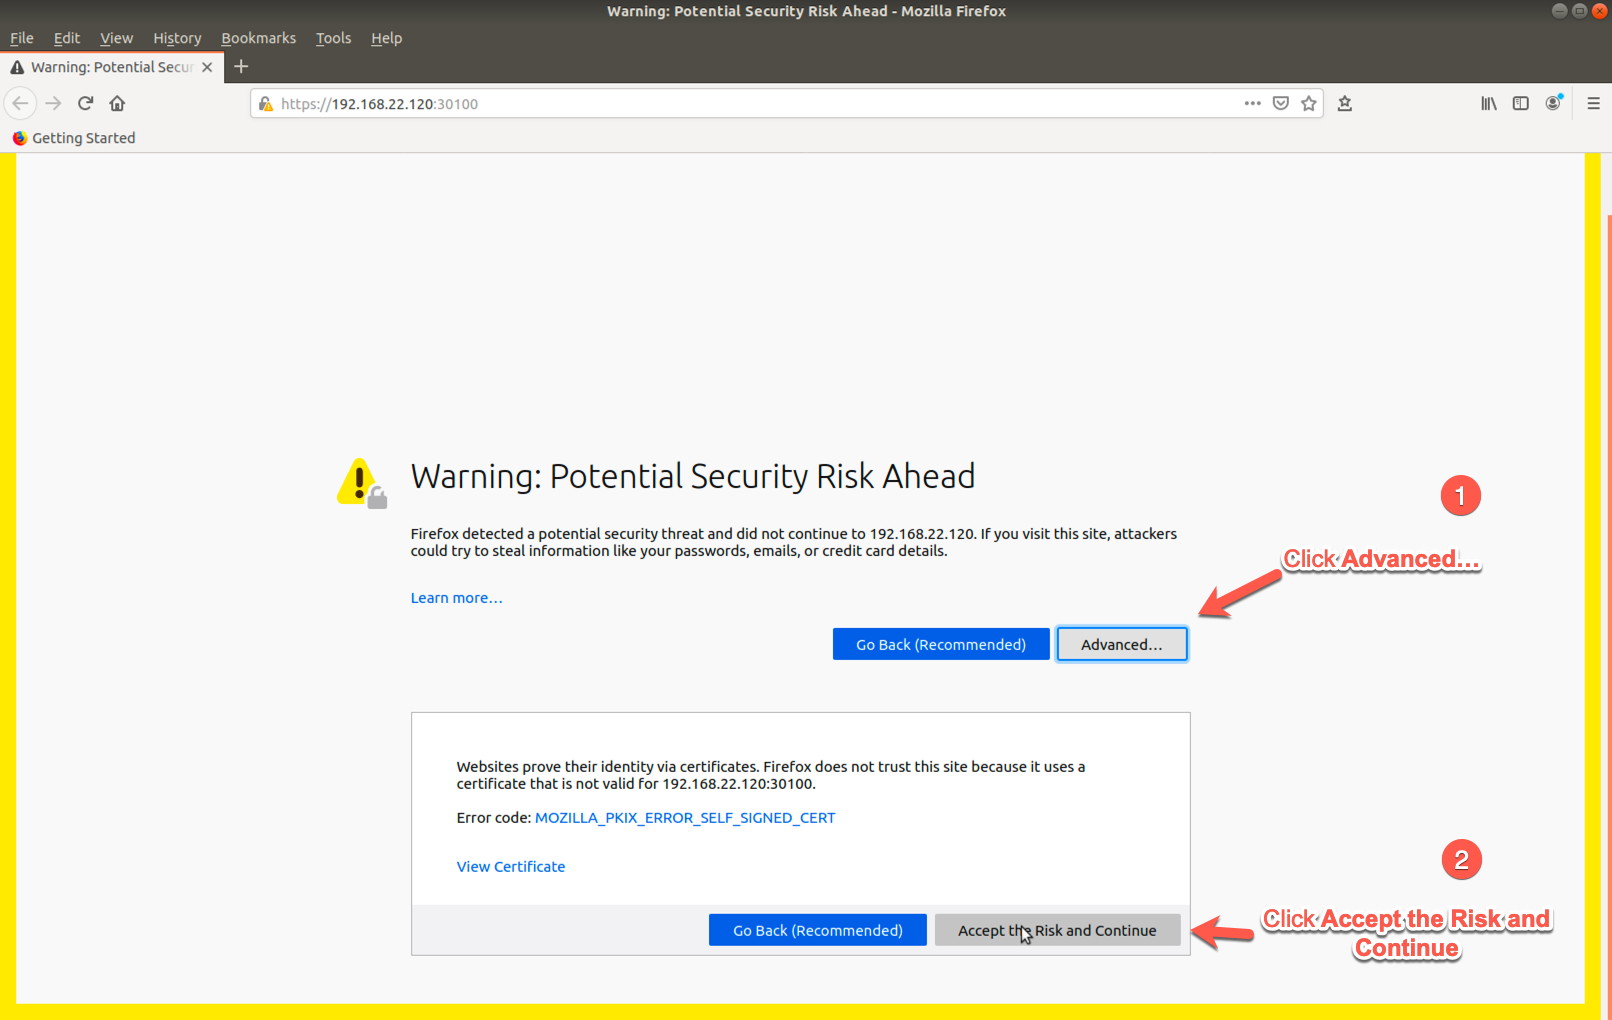
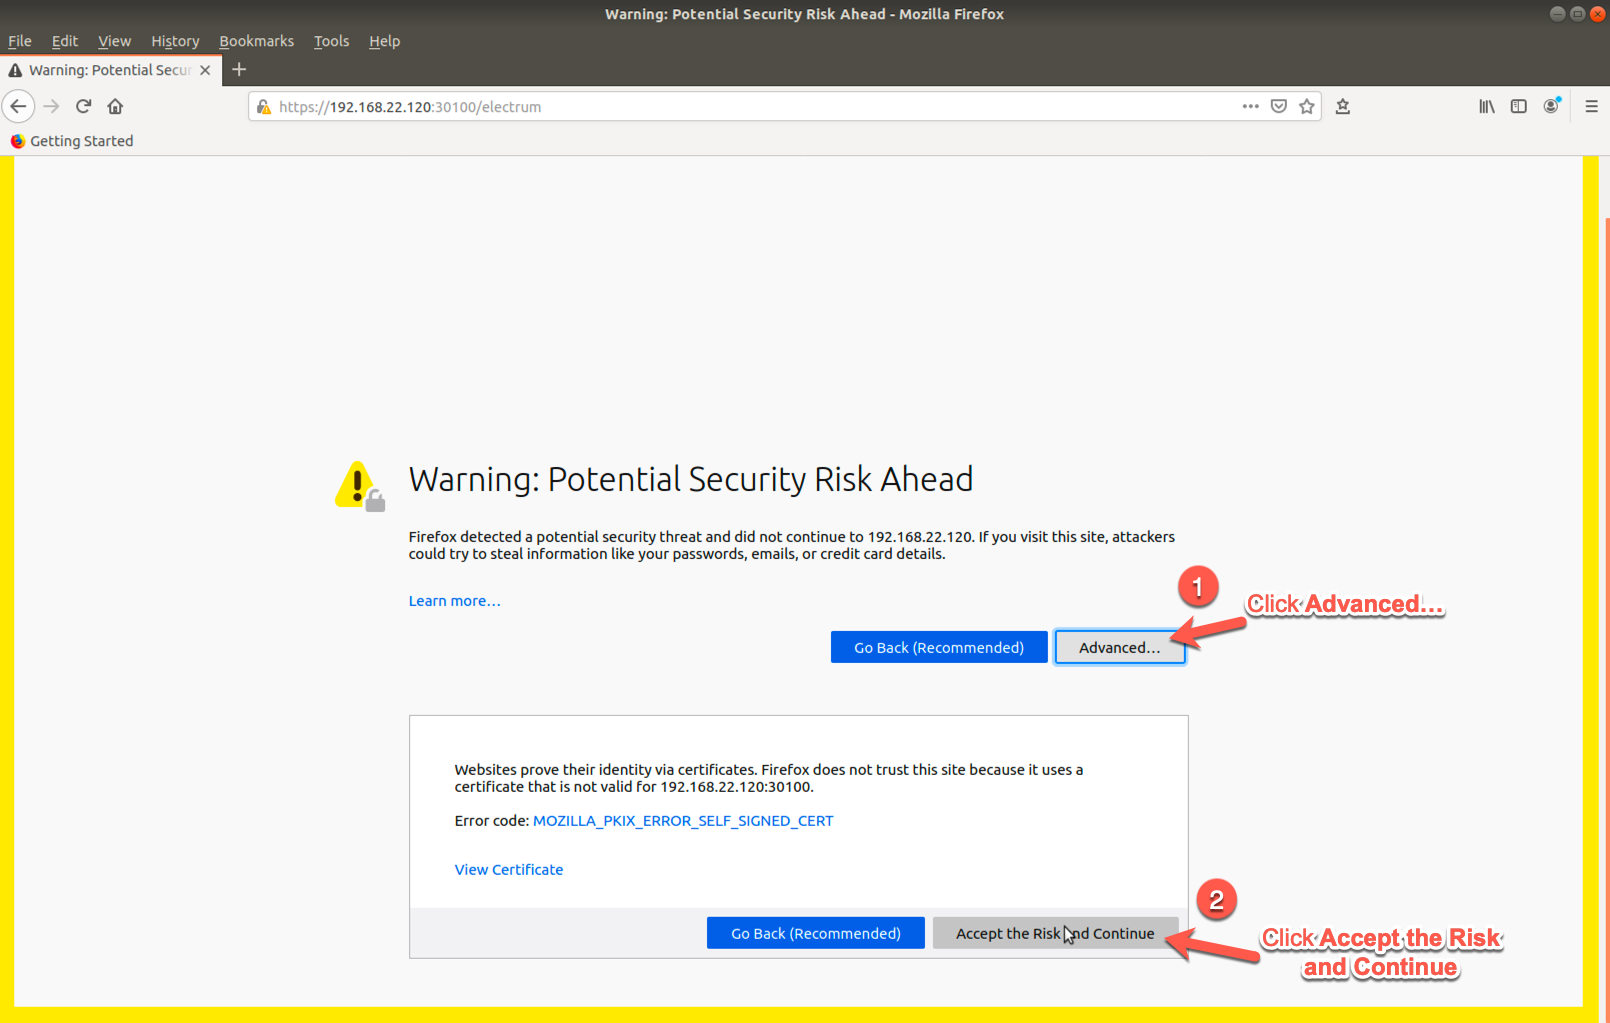
Change images to use /electrum

diff --git a/docs/securebuild-lab/bitcoin_wallet.md b/docs/securebuild-lab/bitcoin_wallet.md
@@ -2,12 +2,14 @@
 
 ## Overview 
 
-This application is an electrum bitcoin wallet. You can use it to store the identities necessary to transact on the bitcoin network. Whereas this version of the wallet is just a proof of concept, the idea is that using a wallet such as this on Hyper Protect enables you to protect your digital assets from bad actors.
+This application is an secure Electrum Bitcoin wallet found at [this GitHub repository](https://github.com/IBM/secure-bitcoin-wallet){_target=blank}. You can use it to store the identities necessary to transact on the Bitcoin public blockchain network. While this version of the wallet is just a proof of concept, running this type of wallet on Hyper Protect enables you to protect your digital assets from bad actors such as malicious server administrators.
 
 !!! info 
-    You are able to use this Electrum Bitcoin wallet like you normally would. In other words, it inherits the security benefits of the Hyper Protect Virtual Server platform to ensure that a legitimate version of the application is running (Secure Image Build process) and that administrators cannot compromise the application (Hyper Protect Virtual Server deployment)
+    This Electrum Bitcoin wallet functions regularly, while inheriting the security benefits of the Hyper Protect Virtual Server platform. This ensures that a legitimate version of the application is running (Secure Image Build process) and that administrators cannot compromise the application (Hyper Protect Virtual Server deployment).
 
-## Open Link to visit your
+## Register a new user
+
+![User Registration](Bitcoin_Wallet_Images/Wallet_register_info.png)
 
 ## Get currency from a bitcoin test faucet
 

diff --git a/docs/securebuild-lab/deploy-app.md b/docs/securebuild-lab/deploy-app.md
@@ -190,16 +190,16 @@ source "${HOME}/.bashrc"
 
 ## Access your application
 
-Run the following command to print the address for your application:
+Run the following command to print the address for your electrum wallet application:
 
 ``` bash
-echo "https://${SB_IP}:${APP_PORT}"
+echo "https://${SB_IP}:${APP_PORT}/electrum"
 ```
 
 ???+ example "Example Output"
 
     ```
-    https://192.168.22.120:30100
+    https://192.168.22.120:30100/electrum
     ```
 
 Your app is now up and running at the address printed in your terminal! 
